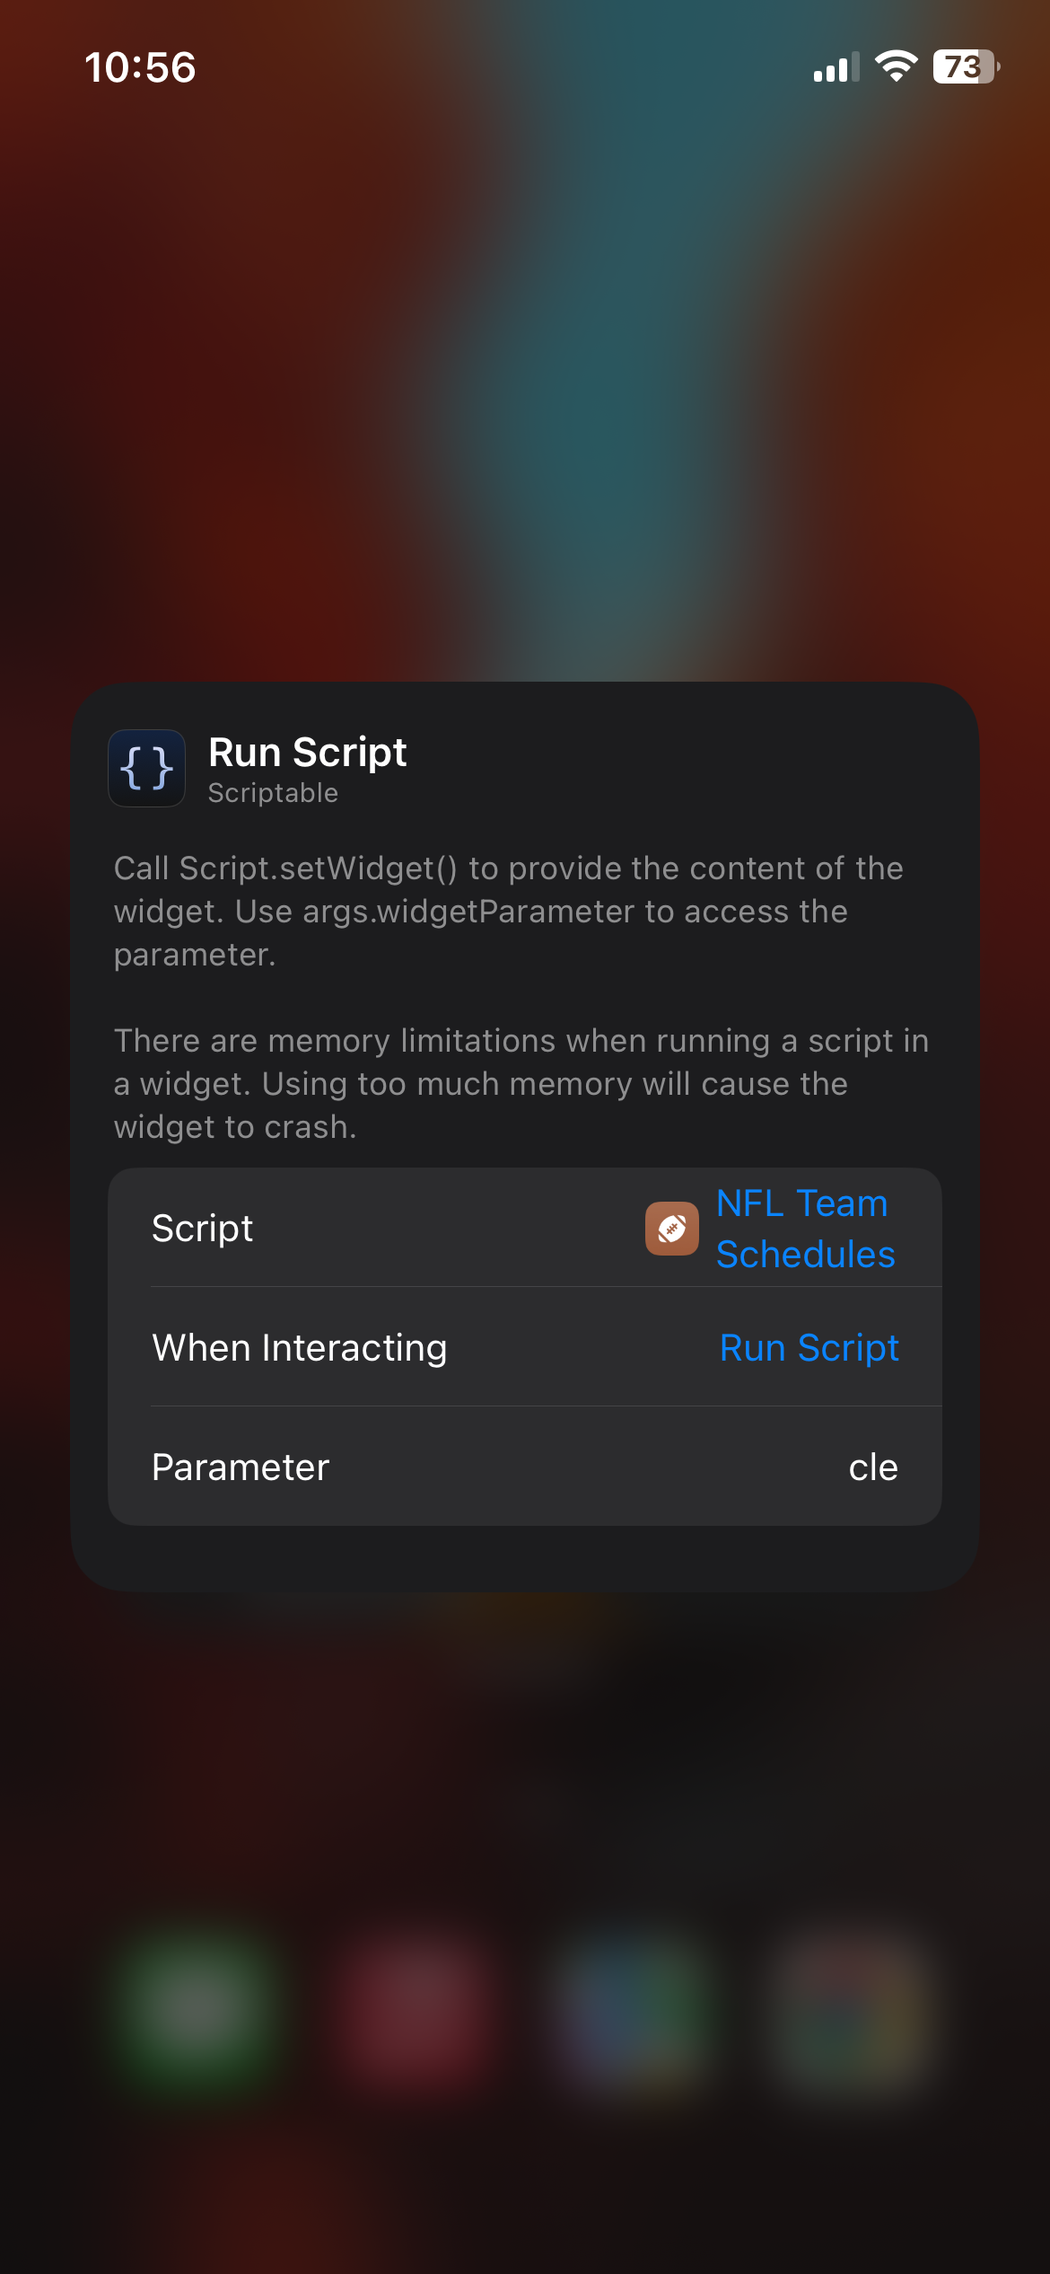
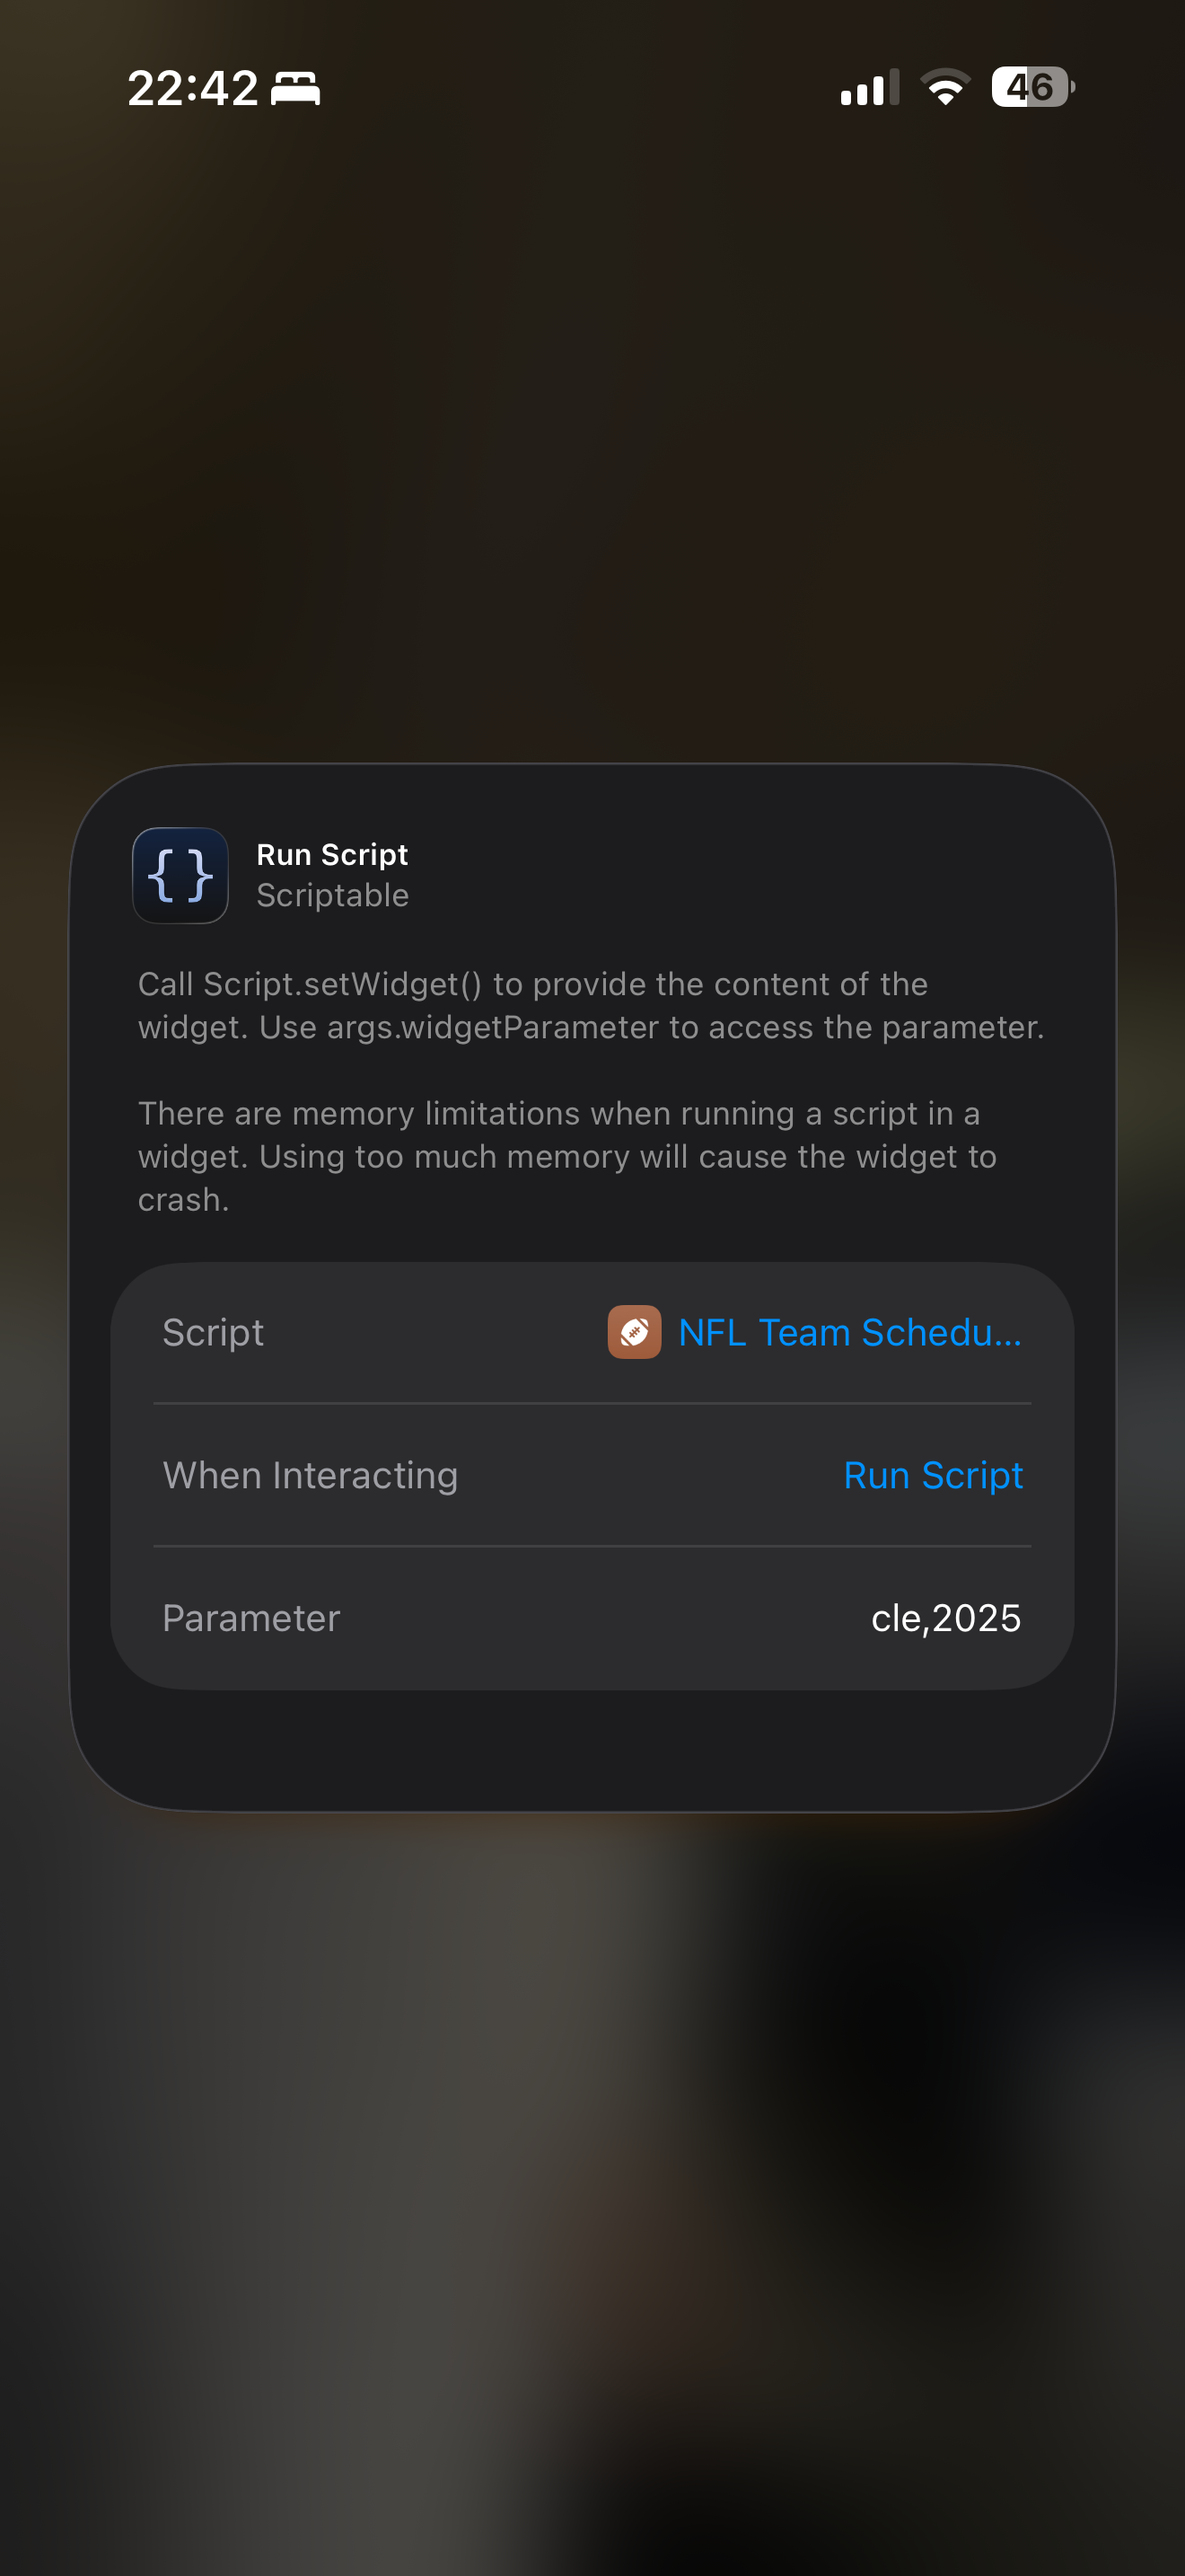
Additional design updates

diff --git a/nfl-script.js b/nfl-script.js
@@ -9,7 +9,7 @@ const CONFIG = {
   },
   ui: {
     padding: 3,
-    titleSpacing: 0,
+    titleSpacing: 2,
     spacing: 0,
     gameSplitIndex: 9,
     columnGap: 7,
@@ -25,14 +25,19 @@ const CONFIG = {
     record: Font.systemFont(9)
   },
   colors: {
-    text: Color.white(),
-    textSecondary: Color.dynamic(new Color('#ffffff', 0.7), new Color('#ffffff', 0.6)),
+    text: new Color('#f9fafb'),
+    textSecondary: new Color('#cbd5e1'),
+    textOnLight: new Color('#111827'),
+    textSecondaryOnLight: new Color('#374151'),
+    textOnDark: new Color('#f9fafb'),
+    textSecondaryOnDark: new Color('#cbd5e1'),
     gradientTop: Color.dynamic(new Color('#ffffff', 0.15), new Color('#000000', 0.2)),
     gradientBottom: Color.dynamic(new Color('#ffffff', 0.35), new Color('#000000', 0.4)),
     win: new Color('#4ade80'),
     loss: new Color('#f87171'),
     tie: new Color('#fbbf24')
   },
+  useTeamSecondaryColorBackground: false,
   teamsPrimaryColor: ['ARI', 'BUF', 'CHI', 'JAX', 'KC', 'MIN', 'PIT'],
   validTeams: ['ARI', 'ATL', 'BAL', 'BUF', 'CAR', 'CHI', 'CIN', 'CLE', 'DAL', 'DEN', 'DET', 'GB', 'HOU', 'IND', 'JAX', 'KC', 'LAR', 'LAC', 'LV', 'MIA', 'MIN', 'NE', 'NO', 'NYJ', 'NYG', 'PHI', 'PIT', 'SEA', 'SF', 'TB', 'TEN', 'WSH']
 }
@@ -113,6 +118,10 @@ class Schedule {
     if (wins + losses + ties === 0) return null
     return ties > 0 ? `${wins}-${losses}-${ties}` : `${wins}-${losses}`
   }
+
+  get displayYear() {
+    return this.seasonYear ?? this.year
+  }
 }
 
 // Fetches team metadata and caches logos locally.
@@ -156,6 +165,8 @@ class Team {
   }
 
   getBackgroundColor() {
+    if (CONFIG.useTeamSecondaryColorBackground) return this.alternateColor
+
     const usesPrimaryColor = CONFIG.teamsPrimaryColor.includes(this.abbreviation.toUpperCase())
     return usesPrimaryColor ? this.color : this.alternateColor
   }
@@ -165,6 +176,8 @@ class Team {
 class WidgetDisplay {
   constructor() {
     this.widget = new ListWidget()
+    this.primaryTextColor = CONFIG.colors.text
+    this.secondaryTextColor = CONFIG.colors.textSecondary
   }
 
   async render(team) {
@@ -195,6 +208,8 @@ class WidgetDisplay {
 
   setupBackground(backgroundColor) {
     // Paint a team-colored background and apply the overlay gradient.
+    this.setReadableTextColors(backgroundColor)
+
     const context = new DrawContext()
     const rect = new Rect(0, 0, DEVICE.width * 2, DEVICE.height * 2)
 
@@ -212,6 +227,30 @@ class WidgetDisplay {
     this.widget.backgroundGradient = gradient
   }
 
+  setReadableTextColors(backgroundColor) {
+    const isLightBackground = this.getRelativeLuminance(backgroundColor) > 0.62
+
+    if (isLightBackground) {
+      this.primaryTextColor = CONFIG.colors.textOnLight
+      this.secondaryTextColor = CONFIG.colors.textSecondaryOnLight
+      return
+    }
+
+    this.primaryTextColor = CONFIG.colors.textOnDark
+    this.secondaryTextColor = CONFIG.colors.textSecondaryOnDark
+  }
+
+  getRelativeLuminance(hexColor) {
+    const sanitizedHex = `${hexColor}`.replace('#', '').trim()
+    if (!/^[0-9a-fA-F]{6}$/.test(sanitizedHex)) return 0
+
+    const red = parseInt(sanitizedHex.slice(0, 2), 16)
+    const green = parseInt(sanitizedHex.slice(2, 4), 16)
+    const blue = parseInt(sanitizedHex.slice(4, 6), 16)
+
+    return (0.2126 * red + 0.7152 * green + 0.0722 * blue) / 255
+  }
+
   addTitle(parentStack, team) {
     // Render title and record line above the schedule grid.
     const titleStack = parentStack.addStack()
@@ -224,7 +263,7 @@ class WidgetDisplay {
 
     const title = mainTitleStack.addText(team.displayName)
     title.font = CONFIG.fonts.title
-    title.textColor = CONFIG.colors.text
+    title.textColor = this.primaryTextColor
 
     if (team.schedule.recordSummary) {
       mainTitleStack.addSpacer(3)
@@ -235,12 +274,13 @@ class WidgetDisplay {
 
       const recordText = recordStack.addText(team.schedule.recordSummary)
       recordText.font = CONFIG.fonts.record
-      recordText.textColor = CONFIG.colors.textSecondary
+      recordText.textColor = this.secondaryTextColor
     }
 
-    const divider = titleStack.addText('─'.repeat(12))
+    const dividerPrefix = team.schedule.displayYear ? `${team.schedule.displayYear} ` : ''
+    const divider = titleStack.addText(`${dividerPrefix}${'─'.repeat(12)}`)
     divider.font = Font.systemFont(7)
-    divider.textColor = CONFIG.colors.textSecondary
+    divider.textColor = this.secondaryTextColor
     divider.lineLimit = 1
 
     titleStack.addSpacer(CONFIG.ui.titleSpacing)
@@ -279,7 +319,7 @@ class WidgetDisplay {
 
     const dateText = dateColumn.addText(game.date)
     dateText.font = CONFIG.fonts.date
-    dateText.textColor = CONFIG.colors.textSecondary
+    dateText.textColor = this.secondaryTextColor
     dateText.lineLimit = 1
 
     row.addSpacer(3)
@@ -290,7 +330,7 @@ class WidgetDisplay {
 
     const matchupText = matchupColumn.addText(game.matchup)
     matchupText.font = CONFIG.fonts.body
-    matchupText.textColor = CONFIG.colors.text
+    matchupText.textColor = this.primaryTextColor
     matchupText.lineLimit = 1
 
     row.addSpacer(5)

diff --git a/ncaaf-script.js b/ncaaf-script.js
@@ -9,7 +9,7 @@ const CONFIG = {
   },
   ui: {
     padding: 3,
-    titleSpacing: 0,
+    titleSpacing: 2,
     spacing: 0,
     gameSplitIndex: 9,
     columnGap: 7,
@@ -25,8 +25,12 @@ const CONFIG = {
     record: Font.systemFont(9)
   },
   colors: {
-    text: Color.white(),
-    textSecondary: Color.dynamic(new Color("#ffffff", 0.7), new Color("#ffffff", 0.6)),
+    text: new Color("#f9fafb"),
+    textSecondary: new Color("#cbd5e1"),
+    textOnLight: new Color("#111827"),
+    textSecondaryOnLight: new Color("#374151"),
+    textOnDark: new Color("#f9fafb"),
+    textSecondaryOnDark: new Color("#cbd5e1"),
     gradientTop: Color.dynamic(new Color("#ffffff", 0.15), new Color("#000000", 0.2)),
     gradientBottom: Color.dynamic(new Color("#ffffff", 0.35), new Color("#000000", 0.4)),
     win: new Color("#4ade80"),
@@ -106,6 +110,10 @@ class Schedule {
     if (wins + losses + ties === 0) return null
     return ties > 0 ? `${wins}-${losses}-${ties}` : `${wins}-${losses}`
   }
+
+  get displayYear() {
+    return this.seasonYear ?? this.year
+  }
 }
 
 // Fetches team metadata and caches logos locally.
@@ -156,6 +164,8 @@ class Team {
 class WidgetDisplay {
   constructor() {
     this.widget = new ListWidget()
+    this.primaryTextColor = CONFIG.colors.text
+    this.secondaryTextColor = CONFIG.colors.textSecondary
   }
 
   async render(team) {
@@ -186,6 +196,8 @@ class WidgetDisplay {
 
   setupBackground(backgroundColor) {
     // Paint a team-colored background and apply the overlay gradient.
+    this.setReadableTextColors(backgroundColor)
+
     const context = new DrawContext()
     const rect = new Rect(0, 0, DEVICE.width * 2, DEVICE.height * 2)
 
@@ -203,6 +215,30 @@ class WidgetDisplay {
     this.widget.backgroundGradient = gradient
   }
 
+  setReadableTextColors(backgroundColor) {
+    const isLightBackground = this.getRelativeLuminance(backgroundColor) > 0.62
+
+    if (isLightBackground) {
+      this.primaryTextColor = CONFIG.colors.textOnLight
+      this.secondaryTextColor = CONFIG.colors.textSecondaryOnLight
+      return
+    }
+
+    this.primaryTextColor = CONFIG.colors.textOnDark
+    this.secondaryTextColor = CONFIG.colors.textSecondaryOnDark
+  }
+
+  getRelativeLuminance(hexColor) {
+    const sanitizedHex = `${hexColor}`.replace("#", "").trim()
+    if (!/^[0-9a-fA-F]{6}$/.test(sanitizedHex)) return 0
+
+    const red = parseInt(sanitizedHex.slice(0, 2), 16)
+    const green = parseInt(sanitizedHex.slice(2, 4), 16)
+    const blue = parseInt(sanitizedHex.slice(4, 6), 16)
+
+    return (0.2126 * red + 0.7152 * green + 0.0722 * blue) / 255
+  }
+
   addTitle(parentStack, team) {
     // Render title and record line above the schedule grid.
     const titleStack = parentStack.addStack()
@@ -215,7 +251,7 @@ class WidgetDisplay {
 
     const title = mainTitleStack.addText(team.displayName)
     title.font = CONFIG.fonts.title
-    title.textColor = CONFIG.colors.text
+    title.textColor = this.primaryTextColor
 
     if (team.schedule.recordSummary) {
       mainTitleStack.addSpacer(3)
@@ -226,12 +262,13 @@ class WidgetDisplay {
 
       const recordText = recordStack.addText(team.schedule.recordSummary)
       recordText.font = CONFIG.fonts.record
-      recordText.textColor = CONFIG.colors.textSecondary
+      recordText.textColor = this.secondaryTextColor
     }
 
-    const divider = titleStack.addText('─'.repeat(12))
+    const dividerPrefix = team.schedule.displayYear ? `${team.schedule.displayYear} ` : ""
+    const divider = titleStack.addText(`${dividerPrefix}${'─'.repeat(12)}`)
     divider.font = Font.systemFont(7)
-    divider.textColor = CONFIG.colors.textSecondary
+    divider.textColor = this.secondaryTextColor
     divider.lineLimit = 1
 
     titleStack.addSpacer(CONFIG.ui.titleSpacing)
@@ -270,7 +307,7 @@ class WidgetDisplay {
 
     const dateText = dateColumn.addText(game.date)
     dateText.font = CONFIG.fonts.date
-    dateText.textColor = CONFIG.colors.textSecondary
+    dateText.textColor = this.secondaryTextColor
     dateText.lineLimit = 1
 
     row.addSpacer(3)
@@ -281,7 +318,7 @@ class WidgetDisplay {
 
     const matchupText = matchupColumn.addText(game.matchup)
     matchupText.font = CONFIG.fonts.body
-    matchupText.textColor = CONFIG.colors.text
+    matchupText.textColor = this.primaryTextColor
     matchupText.lineLimit = 1
 
     row.addSpacer(5)

diff --git a/README.md b/README.md
@@ -2,20 +2,52 @@
 
 Display any NCAAF/NFL team's schedule on iOS using the [Scriptable](https://scriptable.app/) app.
 
-![scriptable01](img/scriptable01.png)
+<img src="img/scriptable01.png" alt="scriptable01" width="360" />
 
 ## Setup
 
 1. Download the [Scriptable](https://scriptable.app/) app from the app store
 2. Create a new script in the Scriptable app
-3. Copy & paste the code from [ncaaf-script.js](https://raw.githubusercontent.com/brianwalborn/football-team-schedule-widget/main/ncaaf-script.js) or [nfl-script.js](https://raw.githubusercontent.com/brianwalborn/football-team-schedule-widget/main/nfl-script.js) into the newly created script
-4. Create a new widget on your homescreen, select the newly created script, and pass in a valid team abbreviation.
-  - NCAAF: too many to list, and is much more forgiving than the NFL widget (for example: for Clemson both `clem` and `clemson` can be used, for Kentucky both `uk` and `kentucky` can be used, Ohio State is `ohiost`, Oregon State is `oregonst`, Oklahoma State is `okst`, so on and so forth)
-  - NFL: `ARI`, `ATL`, `BAL`, `BUF`, `CAR`, `CHI`, `CIN`, `CLE`, `DAL`, `DEN`, `DET`, `GB`, `HOU`, `IND`, `JAX`, `KC`, `LAR`, `LAC`, `LV`, `MIA`, `MIN`, `NE`, `NO`, `NYJ`, `NYG`, `PHI`, `PIT`, `SEA`, `SF`, `TB`, `TEN`, `WAS`
+3. Copy and paste the code from [ncaaf-script.js](https://raw.githubusercontent.com/brianwalborn/football-team-schedule-widget/main/ncaaf-script.js) or [nfl-script.js](https://raw.githubusercontent.com/brianwalborn/football-team-schedule-widget/main/nfl-script.js) into the newly created script
+4. Create a new widget on your homescreen, select the newly created script, and pass a widget parameter in one of these formats:
+  - `TEAM_ABBREVIATION`
+  - `TEAM_ABBREVIATION,YEAR`
 
-## Caveats
 
-- If you're unable to see your NCAA team's logo in the background (the schedule is showing but the background is a solid color) or if you simply want to try anothe team color, try replacing `const USE_TEAM_PRIMARY_COLOR_BACKGROUND = false` in the `ncaaf-script.js` with `const USE_TEAM_PRIMARY_COLOR_BACKGROUND = true`
+<img src="img/scriptable02.png" alt="scriptable02" width="360" />
+<img src="img/scriptable03.png" alt="scriptable03" width="360" />
 
-![scriptable02](img/scriptable02.png)
-![scriptable03](img/scriptable03.png)
+## Parameter examples
+
+- NFL current season: `CLE`
+- NFL specific season: `CLE,2024`
+- NCAAF current season: `ala`
+- NCAAF specific season: `ala,2024`
+
+## Team inputs
+
+- NCAAF: too many to list, and is much more forgiving than the NFL widget (for example: for Clemson both `clem` and `clemson` can be used, for Kentucky both `uk` and `kentucky` can be used, Ohio State is `ohiost`, Oregon State is `oregonst`, Oklahoma State is `okst`, so on and so forth)
+
+- NFL: `ARI`, `ATL`, `BAL`, `BUF`, `CAR`, `CHI`, `CIN`, `CLE`, `DAL`, `DEN`, `DET`, `GB`, `HOU`, `IND`, `JAX`, `KC`, `LAR`, `LAC`, `LV`, `MIA`, `MIN`, `NE`, `NO`, `NYJ`, `NYG`, `PHI`, `PIT`, `SEA`, `SF`, `TB`, `TEN`, `WSH`
+
+## Recent UI behavior
+
+- The season year is now shown at the start of the header separator line (for example: `2026 ────────────`).
+- A small extra gap is applied below the separator for readability.
+
+## Background color options
+
+Both scripts now use the `CONFIG` object for style controls.
+
+- NCAAF (`ncaaf-script.js`):
+  - `useTeamPrimaryColorBackground: false` (default)
+  - Set to `true` to force the team's primary color.
+
+- NFL (`nfl-script.js`):
+  - By default, some teams in `teamsPrimaryColor` use primary color, while others use secondary.
+  - `useTeamSecondaryColorBackground: false` (default)
+  - Set to `true` to force the team's secondary color for all teams.
+
+## Notes
+
+- If a logo fails to display, try toggling the related background color option in the script's `CONFIG` object.
